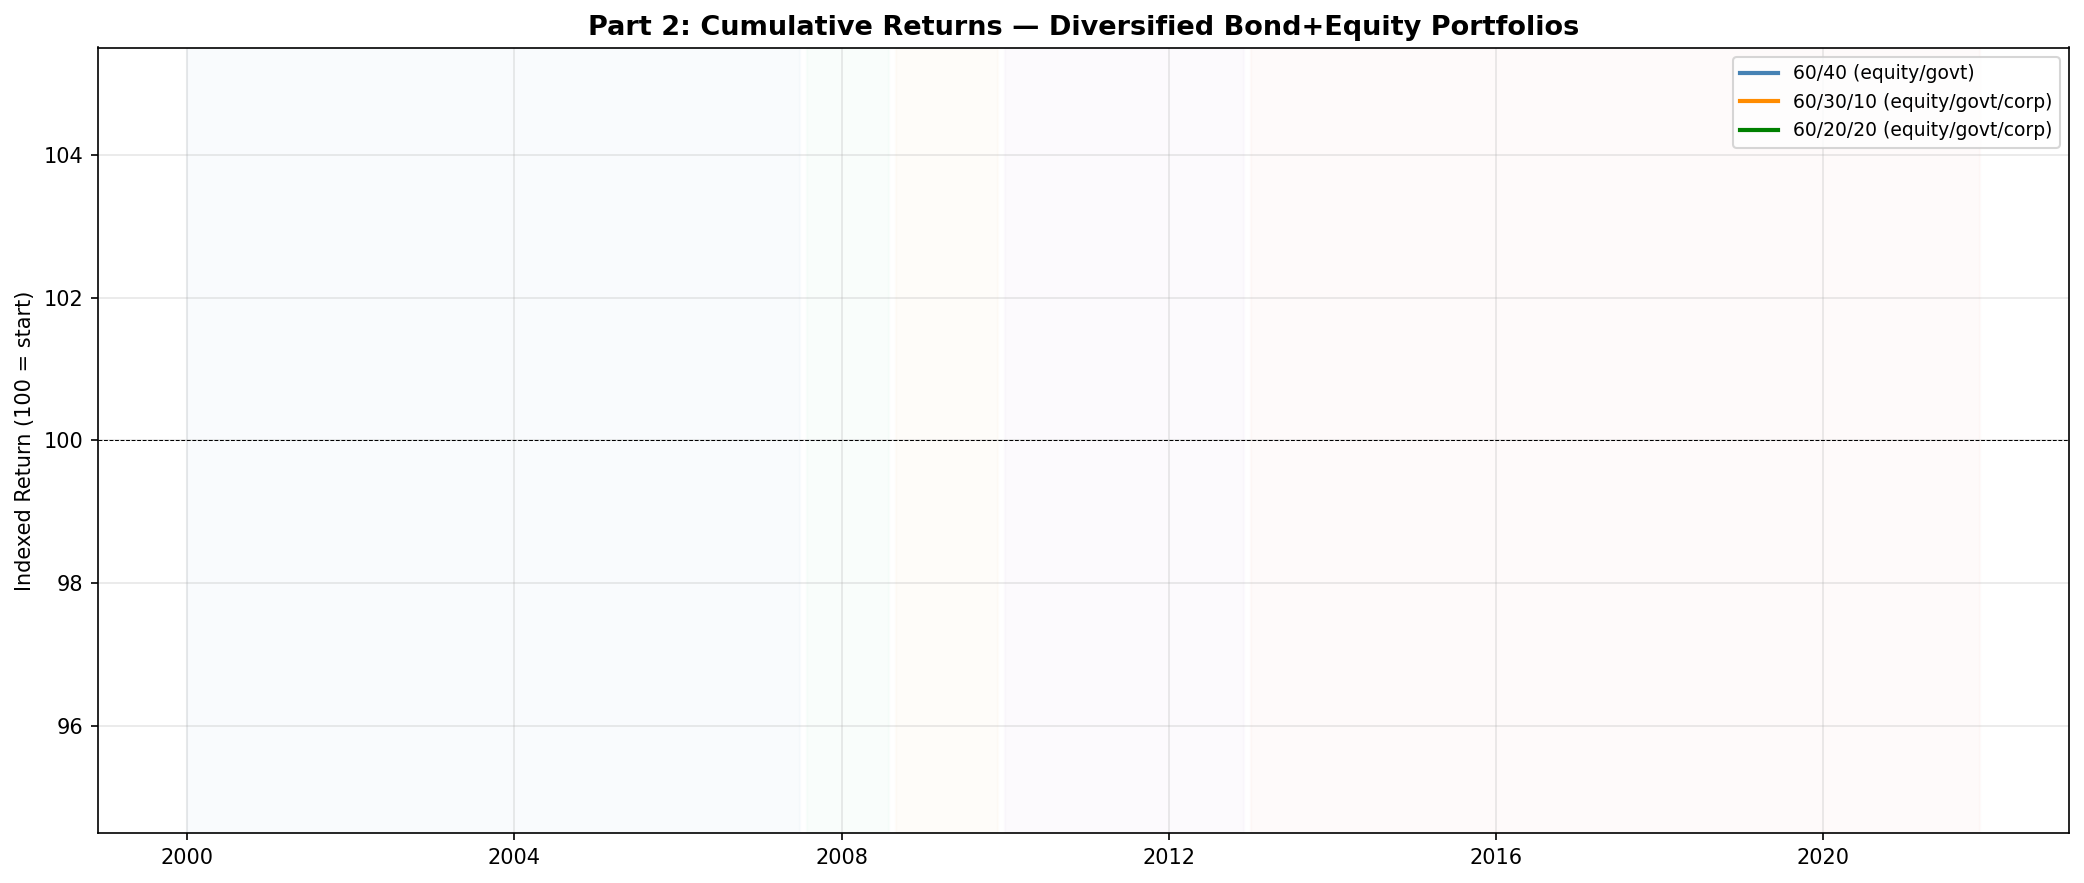
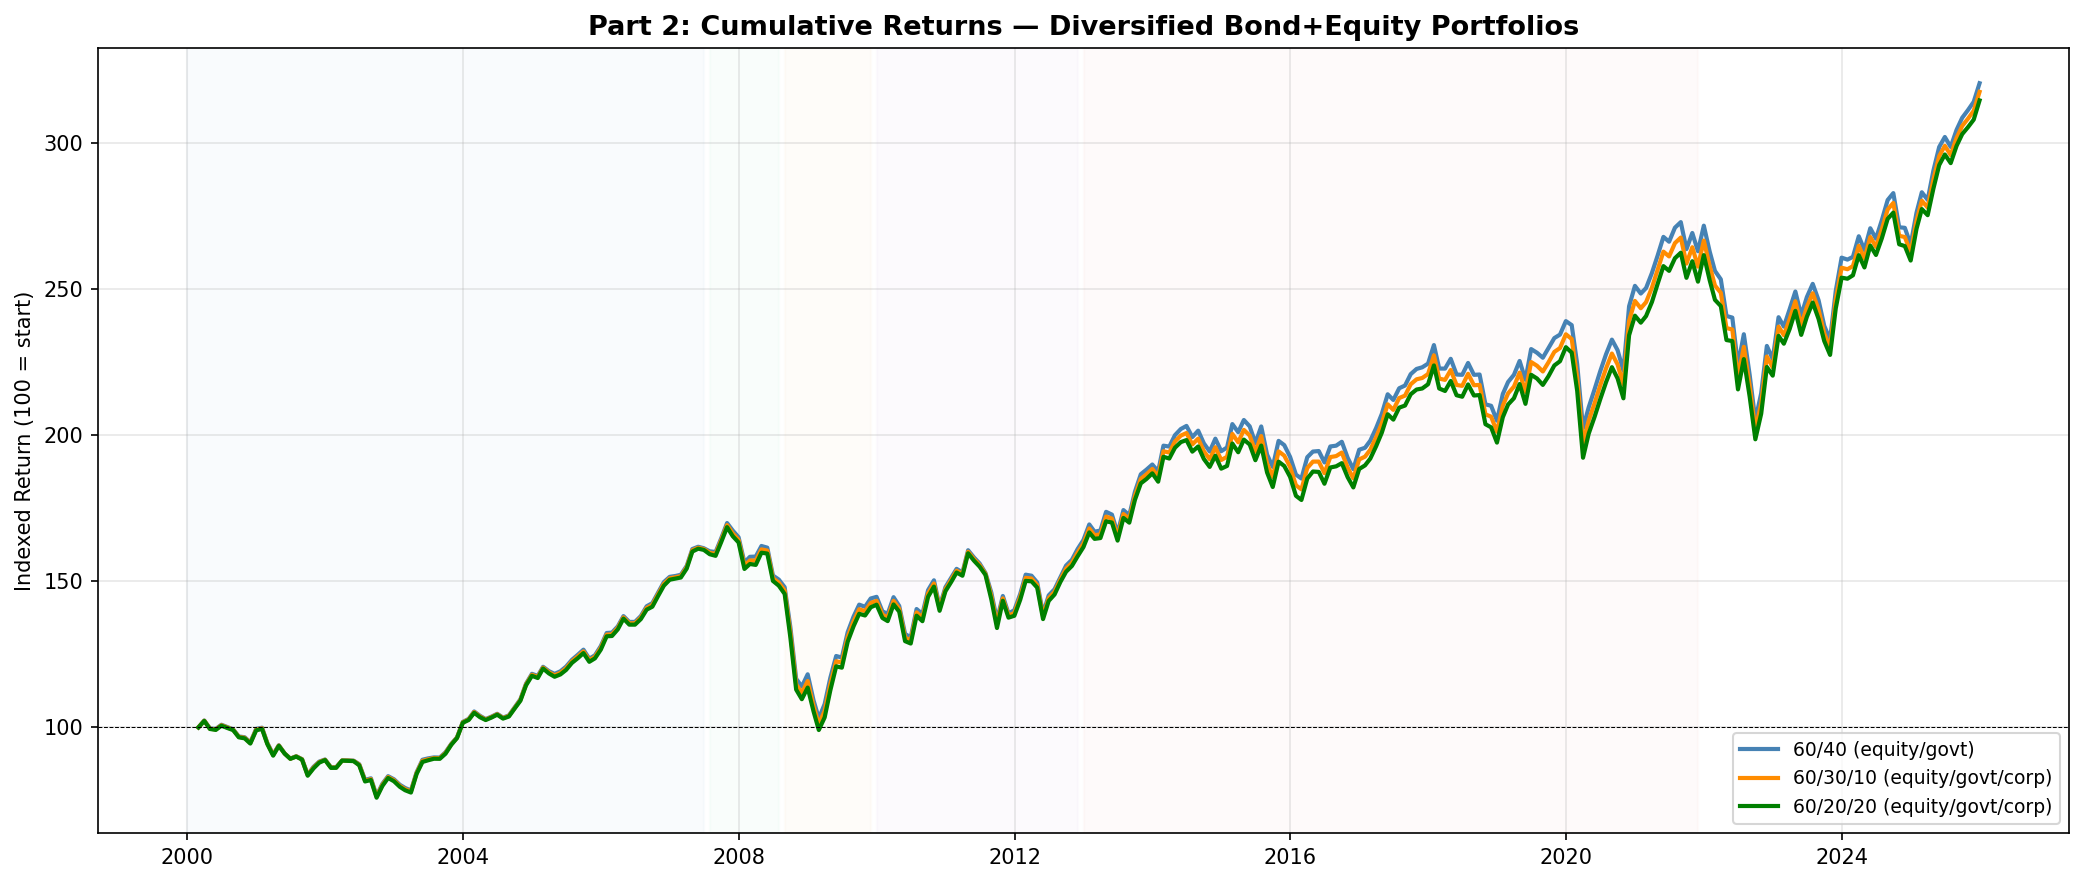
fixed a q5 bug affecting part2 cum returns and rolling beta 36moths (only very slightly 0.91 -> 0.9)

diff --git a/src/Q5_equity_bond_portfolio.py b/src/Q5_equity_bond_portfolio.py
@@ -30,8 +30,9 @@ def load_all_returns() -> pd.DataFrame:
     - Keep full history
     - Sort index and align safely
     """
+    msci = load_msci_europe()                          # ← ADD THIS LINE
+    msci.index = msci.index.to_period("M").to_timestamp("M")  # ← AND THIS
 
-    msci = load_msci_europe()
     govt_dur = load_govt_duration_returns_refinitiv()
     corp_ref = load_corp_returns_refinitiv()
 
@@ -66,10 +67,10 @@ def load_all_returns() -> pd.DataFrame:
 
         print(f"\n── Q5 Portfolio Data Coverage (ETF) ──")
 
-    df = df.sort_index()
+    df = df.sort_index().dropna()  # ← need dropna back
 
-    print(f"  Full sample (no truncation): {df.index.min().date()} → {df.index.max().date()}")
-    print(f"  Observations (raw): {len(df)}")
+    print(f"  Common sample: {df.index.min().date()} → {df.index.max().date()}")
+    print(f"  Observations: {len(df)}")
 
     return df
 
